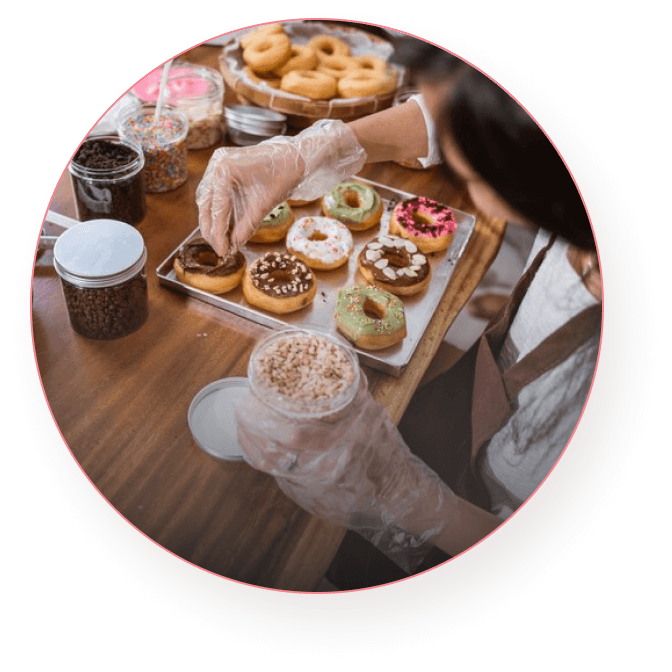
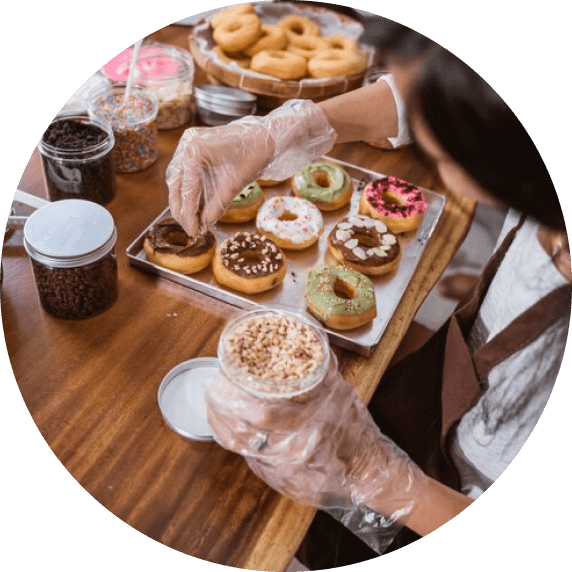
заміна зображень на правильні розміри

diff --git a/src/sass/components/_program.scss b/src/sass/components/_program.scss
@@ -189,8 +189,17 @@
     flex-direction: column;
     padding: 0;
     margin: 0;
-    margin-right: -25px;
+    margin-top: 24px;
+    margin-right: 20px;
     list-style: none;
+
+    @media screen and (min-width: 768px) {
+      margin-right: 33px;
+    }
+
+    @media screen and (min-width: 1200px) {
+      margin-right: 138px;
+    }
   }
 
   //  .program__inner
@@ -199,60 +208,73 @@
     flex-direction: column;
     padding: 0;
     margin: 0;
-    margin-top: 25px;
+    margin-top: 44px;
     list-style: none;
   }
   // .program__items
 
   &__items {
     position: relative;
+    margin-bottom: 28px;
+
+    @media screen and (min-width: 768px) {
+      margin-bottom: 40px;
+    }
   }
 
   &__wrapper {
-    width: 180px;
-    height: 180px;
+    width: 130px;
+    height: 130px;
+    border: 1px solid #f3848c;
+    border-radius: 50%;
+    filter: drop-shadow(0px 4px 4px rgba(0, 0, 0, 0.25));
 
     @media screen and (min-width: 768px) {
-      width: 215px;
-      height: 215px;
+      width: 152px;
+      height: 152px;
     }
 
     @media screen and (min-width: 1200px) {
-      width: 295px;
-      height: 295px;
+      width: 288px;
+      height: 288px;
     }
   }
 
   &__wrap {
     position: absolute;
-    top: 81px;
-    left: 19px;
+    top: 71px;
+    left: 3px;
     text-align: center;
 
     @media screen and (min-width: 768px) {
-      top: 101px;
-      left: 25px;
+      top: 85px;
+      left: 5px;
     }
 
     @media screen and (min-width: 1200px) {
-      top: 171px;
-      left: 32px;
+      top: 195px;
+      left: 33px;
     }
   }
 
   &__wrap2 {
     position: absolute;
-    top: 83px;
-    left: 30px;
+    top: 68px;
+    left: 10px;
     text-align: center;
 
+    &--center {
+      top: 65px;
+      left: -1px;
+    }
+
     @media screen and (min-width: 768px) {
-      top: 105px;
-      left: 32px;
+      top: 84px;
+      left: 12px;
     }
 
     @media screen and (min-width: 1200px) {
-      top: 178px;
+      top: 198px;
       left: 45px;
     }
   }
@@ -267,6 +289,7 @@
   &__img {
     display: block;
     width: 100%;
+    height: auto;
   }
 
   // .program__desc

diff --git a/src/partials/program.html b/src/partials/program.html
@@ -137,7 +137,7 @@
               alt="cooking program"
             />
           </picture>
-          <div class="program__wrap2">
+          <div class="program__wrap2 program__wrap2--center">
             <p class="program__desc">Number of guests</p>
             <p class="program__slogan">1 to 20</p>
           </div>
